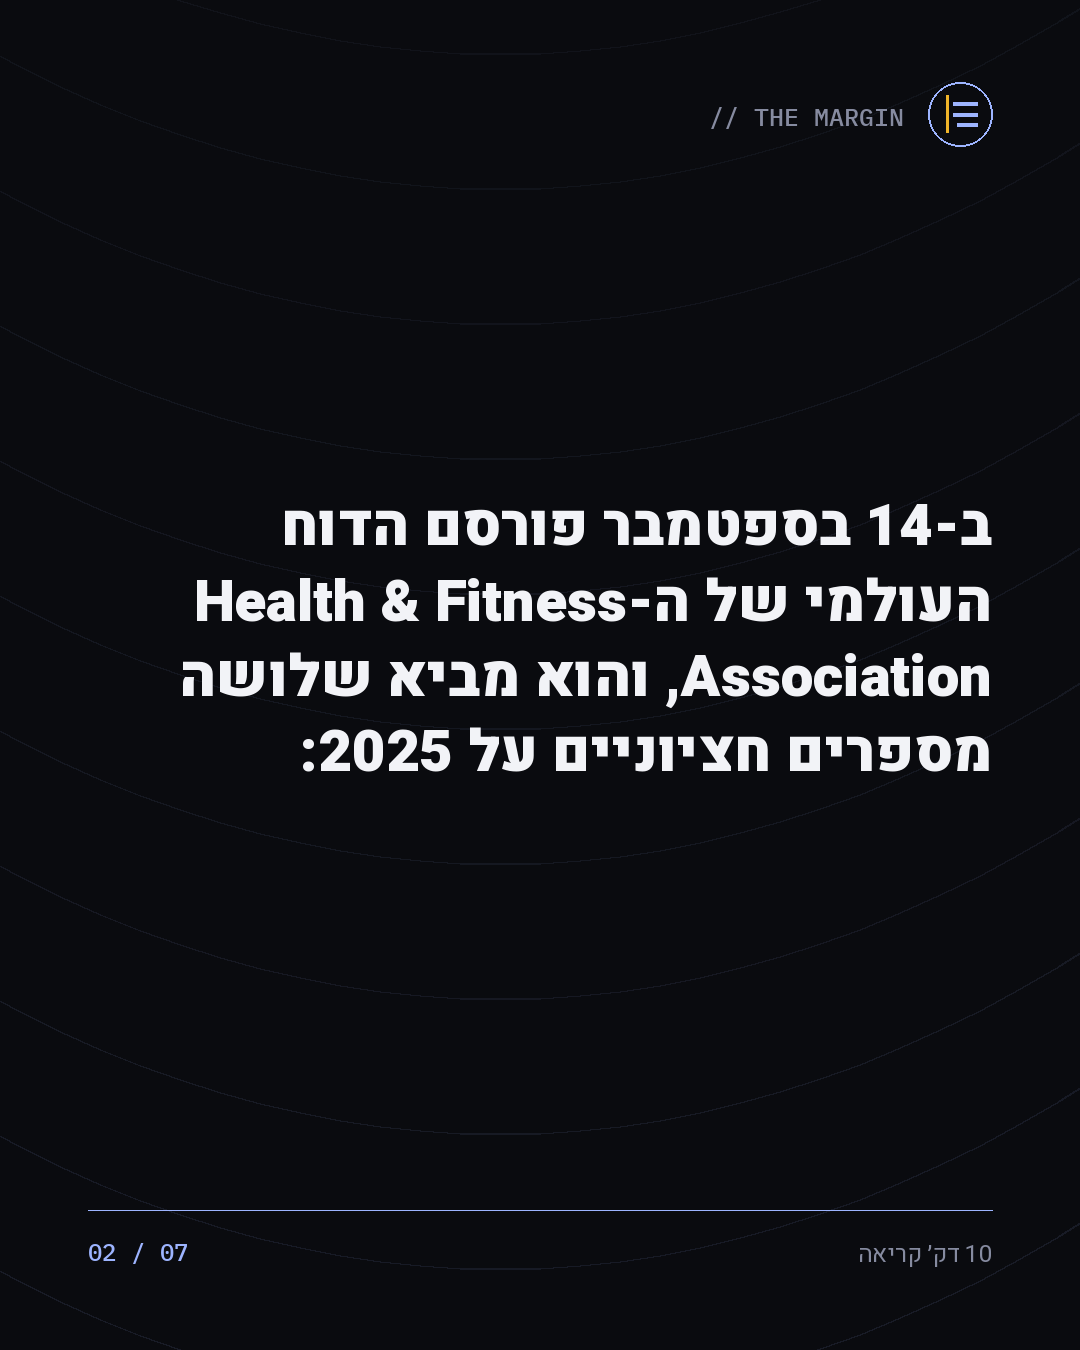
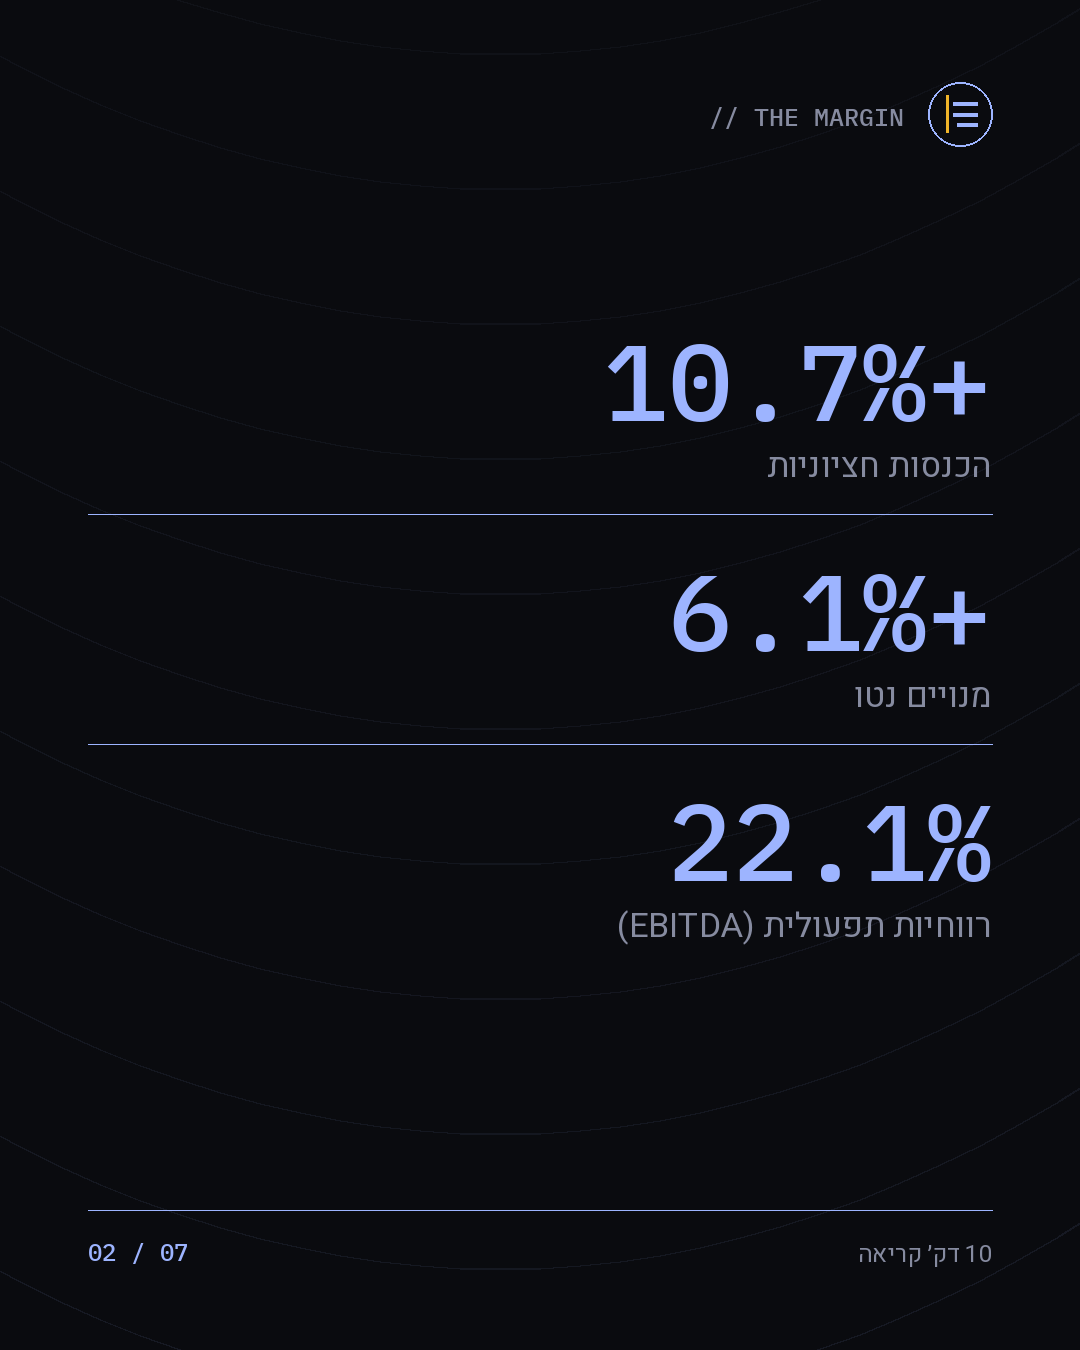
Give number-led articles a hero figure and stat tiles
The benchmark carousel already existed but was the weakest in the set,
and for a structural reason: that article's whole point is three
published figures, and the generator rendered them as prose. 22.1% sat
small inside a headline, and the report's three numbers were crammed
into one paragraph slide — on a feed, nothing to stop a scroll.

Per the visualisation guidance, a single value is a stat tile and the
number you lead with is a hero figure — neither is a chart, and with no
series there is no categorical palette to validate: one accent, and
labels in text tokens.

Two slide types, driven by front matter so the author decides:
  hero:  22.1% · what it measures
  stats: [10.7%+ | label, 6.1%+ | label, 22.1% | label]

Applied to the two number-heavy articles, benchmark and GLP-1.

Three fixes found by looking at the render:
- the hero figure filled the full column and touched both margins; it
  now fits to 90% of it
- with the figures promoted to tiles, the lede paragraph repeating them
  became a duplicate slide, so a paragraph carrying every stat figure is
  dropped
- a long formula shrank itself illegibly to stay on one line; it now
  holds 30px and wraps, and the panel grows to fit

Claude-Session: https://claude.ai/code/session_016WEBsW5mXzxpEPW2RMkdkA

diff --git a/site/social/build_social.py b/site/social/build_social.py
@@ -283,6 +283,73 @@ def slide_hook(a, index, total):
     return img
 
 
+def slide_hero(a, figure, label, index, total):
+    """שקף פתיחה למספר אחד. המספר הוא עוצר הגלילה, לא הכותרת.
+
+    לפי כללי התצוגה: ערך בודד הוא אריח מדד, לא גרף עמודה אחת, והמספר
+    שמובילים איתו הוא Hero figure. אין כאן סדרות, ולכן אקסנט אחד
+    וטקסט בטוקנים של טקסט — לא המספר בצבע של סדרה."""
+    img, d = new_slide(a["slug"], a["category"], 0.55)
+    right = W - MARGIN
+    maxw = W - MARGIN * 2
+    chrome(img, d, a, "// THE MARGIN", index, total, a["date_he"])
+
+    # המספר נמתח עד רוחב העמוד
+    size = 300
+    while MONO(size).getlength(figure, direction="ltr") > maxw * 0.9 and size > 80:
+        size -= 6
+    fnum = MONO(size)
+
+    label_lines = wrap(label, BODY(38), maxw)
+    tfont, tlines = fit(a["title"], maxw, 4, 54, floor=34)
+    block = size * 1.05 + 30 + len(label_lines) * 54 + 50 + len(tlines) * tfont.size * 1.18
+    y = max(MARGIN + 150, (H - block) / 2 - 30)
+
+    d.text((right - fnum.getlength(figure, direction="ltr"), y), figure,
+           font=fnum, fill=ACCENT, direction="ltr")
+    y += size * 1.05 + 30
+
+    for ln in label_lines:
+        draw_rtl(d, ln, right, y, BODY(38), PAPER)
+        y += 54
+
+    y += 22
+    d.line([(right - 150, y), (right, y)], fill=SIGNAL, width=4)
+    y += 34
+
+    for ln in tlines:
+        draw_rtl(d, ln, right, y, tfont, MUTED)
+        y += tfont.size * 1.18
+    return img
+
+
+def slide_stats(a, stats, index, total):
+    """שורת מדדים: כמה מספרי כותרת, כל אחד אריח — לא פסקה ולא גרף מקובץ."""
+    img, d = new_slide(a["slug"], a["category"], 0.3)
+    right = W - MARGIN
+    chrome(img, d, a, "// THE MARGIN", index, total, "%s דק׳ קריאה" % a["readingTime"])
+
+    tile = 230
+    block = len(stats) * tile
+    y = max(MARGIN + 150, (H - block) / 2 - 20)
+
+    for i, (figure, label) in enumerate(stats):
+        if i:
+            d.line([(MARGIN, y - 26), (W - MARGIN, y - 26)], fill=ACCENT + (46,), width=1)
+        size = 108
+        while MONO(size).getlength(figure, direction="ltr") > W - MARGIN * 2 - 40 and size > 40:
+            size -= 4
+        f = MONO(size)
+        d.text((right - f.getlength(figure, direction="ltr"), y), figure,
+               font=f, fill=ACCENT, direction="ltr")
+        yy = y + size * 1.1 + 12
+        for ln in wrap(label, BODY(34), W - MARGIN * 2)[:2]:
+            draw_rtl(d, ln, right, yy, BODY(34), MUTED)
+            yy += 46
+        y += tile
+    return img
+
+
 def slide_body(a, text, index, total, eyebrow=""):
     img, d = new_slide(a["slug"], a["category"], 0.35)
     right = W - MARGIN
@@ -309,23 +376,28 @@ def slide_formula(a, formula, index, total):
     chrome(img, d, a, "// THE MARGIN", index, total, "הנוסחה")
 
     lines = [l for l in formula.split("\n") if l.strip()]
-    box_h = len(lines) * 62 + 80
+    inner_w = W - MARGIN * 2 - 80
+    rows = sum(max(1, len(wrap(l, LABEL(l, 40), inner_w))) for l in lines)
+    box_h = rows * 62 + 80
     y = max(MARGIN + 190, (H - box_h - 90) / 2)
 
     draw_rtl(d, "החישוב עצמו", right, y, BODY(28), SIGNAL)
     y += 90
     d.rectangle([MARGIN, y, W - MARGIN, y + box_h], fill=PANEL + (235,), outline=ACCENT + (70,), width=2)
     yy = y + 40
+    inner = W - MARGIN * 2 - 80
     for ln in lines:
+        # לא מצטמקים מתחת לגודל קריא — משם והלאה שוברים שורה
         size = 40
-        while measure(ln, LABEL(ln, size)) > W - MARGIN * 2 - 80 and size > 18:
+        while measure(ln, LABEL(ln, size)) > inner and size > 30:
             size -= 2
         font = LABEL(ln, size)
-        if is_rtl(ln):
-            draw_rtl(d, ln, W - MARGIN - 40, yy, font, ACCENT)
-        else:
-            d.text((MARGIN + 40, yy), ln, font=font, fill=ACCENT, direction="ltr")
-        yy += 62
+        for part in wrap(ln, font, inner):
+            if is_rtl(part):
+                draw_rtl(d, part, W - MARGIN - 40, yy, font, ACCENT)
+            else:
+                d.text((MARGIN + 40, yy), part, font=font, fill=ACCENT, direction="ltr")
+            yy += 62
     return img
 
 
@@ -408,6 +480,23 @@ def parse_article(path):
 
     paragraphs = [clean(p) for p in re.split(r"\n\s*\n", free)
                   if p.strip() and not p.strip().startswith(("#", ">", "-", "|", "{{", "```"))]
+
+    # hero:  <מספר> · <מה הוא מודד>
+    hero = None
+    if meta.get("hero"):
+        parts = [x.strip() for x in meta["hero"].split("·", 1)]
+        if len(parts) == 2:
+            hero = (parts[0], parts[1])
+
+    # stats: [<מספר> | <תווית>, ...]
+    stats = []
+    raw = meta.get("stats", "")
+    if raw.startswith("["):
+        for item in raw[1:-1].split(","):
+            if "|" in item:
+                fig, lab = item.split("|", 1)
+                stats.append((fig.strip(), lab.strip()))
+    meta["_hero"], meta["_stats"] = hero, stats
     formulas = re.findall(r"```\n(.*?)```", free + "\n" + paid, re.S)
     headings = [clean(h) for h in re.findall(r"^##\s+(.*)$", paid, re.M)]
     return meta, paragraphs, formulas, headings
@@ -433,7 +522,14 @@ def build(slug_filter=None, with_toc=True):
         }
 
         # שקף לכל פסקה מהחלק הפתוח, עד שלוש — הן הטיזר, לא המוצר
-        body_texts = [p for p in paragraphs[:3] if len(p) > 40]
+        hero, stats = meta.get("_hero"), meta.get("_stats") or []
+
+        body_texts = [p for p in paragraphs[:4] if len(p) > 40]
+        # פסקה שחוזרת על אותם מספרים שכבר מופיעים כאריחים היא כפילות
+        if stats:
+            body_texts = [t for t in body_texts
+                          if not all(fig in t for fig, _ in stats)]
+        body_texts = body_texts[:3]
 
         # שמירה אקטיבית: אף משפט מהחלק בתשלום לא מגיע לשקף.
         # כותרות משנה מותרות במפורש — הן תוכן עניינים, לא הניתוח.
@@ -444,7 +540,10 @@ def build(slug_filter=None, with_toc=True):
                 sentence = sentence.strip()
                 if len(sentence) >= 45 and sentence in paid_prose:
                     raise SystemExit("דליפה: משפט בתשלום הגיע לשקף של %s\n  %s" % (slug, sentence[:70]))
-        plan = ["hook"] + ["body"] * len(body_texts)
+        plan = ["hero" if hero else "hook"]
+        if stats:
+            plan.append("stats")
+        plan += ["body"] * len(body_texts)
         if formulas:
             plan.append("formula")
         if with_toc and headings:
@@ -461,6 +560,10 @@ def build(slug_filter=None, with_toc=True):
         for i, kind in enumerate(plan, 1):
             if kind == "hook":
                 img = slide_hook(a, i, total)
+            elif kind == "hero":
+                img = slide_hero(a, hero[0], hero[1], i, total)
+            elif kind == "stats":
+                img = slide_stats(a, stats, i, total)
             elif kind == "body":
                 img = slide_body(a, body_texts[bi], i, total)
                 bi += 1

diff --git a/site/content/articles/19-glp1.md b/site/content/articles/19-glp1.md
@@ -9,6 +9,8 @@ premium: true
 status: seed
 readingTime: 10
 tags: [GLP-1, קהל, תמחור]
+hero: $449 · ההוצאה החודשית על כושר אצל משתמשי GLP-1
+stats: [$449 | משתמשי GLP-1, $120 | מי שאינם משתמשים, 41% | מעולם לא עשו אימוני כוח]
 ---
 
 סקר שפורסם בקיץ מדד את ההוצאה החודשית על כושר בקרב משתמשי תרופות GLP-1 — אוזמפיק, ויגובי ומה שאחריהן — מול מי שאינם משתמשים. ההפרש לא קטן:

diff --git a/site/content/articles/25-benchmark.md b/site/content/articles/25-benchmark.md
@@ -9,6 +9,8 @@ premium: true
 status: seed
 readingTime: 10
 tags: [רווחיות, בנצ׳מרק, EBITDA]
+hero: 22.1% · רווחיות תפעולית חציונית אצל מפעילי כושר ב-2025
+stats: [10.7%+ | הכנסות חציוניות, 6.1%+ | מנויים נטו, 22.1% | רווחיות תפעולית (EBITDA)]
 ---
 
 ב-14 בספטמבר פורסם הדוח העולמי של ה-Health & Fitness Association, והוא מביא שלושה מספרים חציוניים על 2025:
